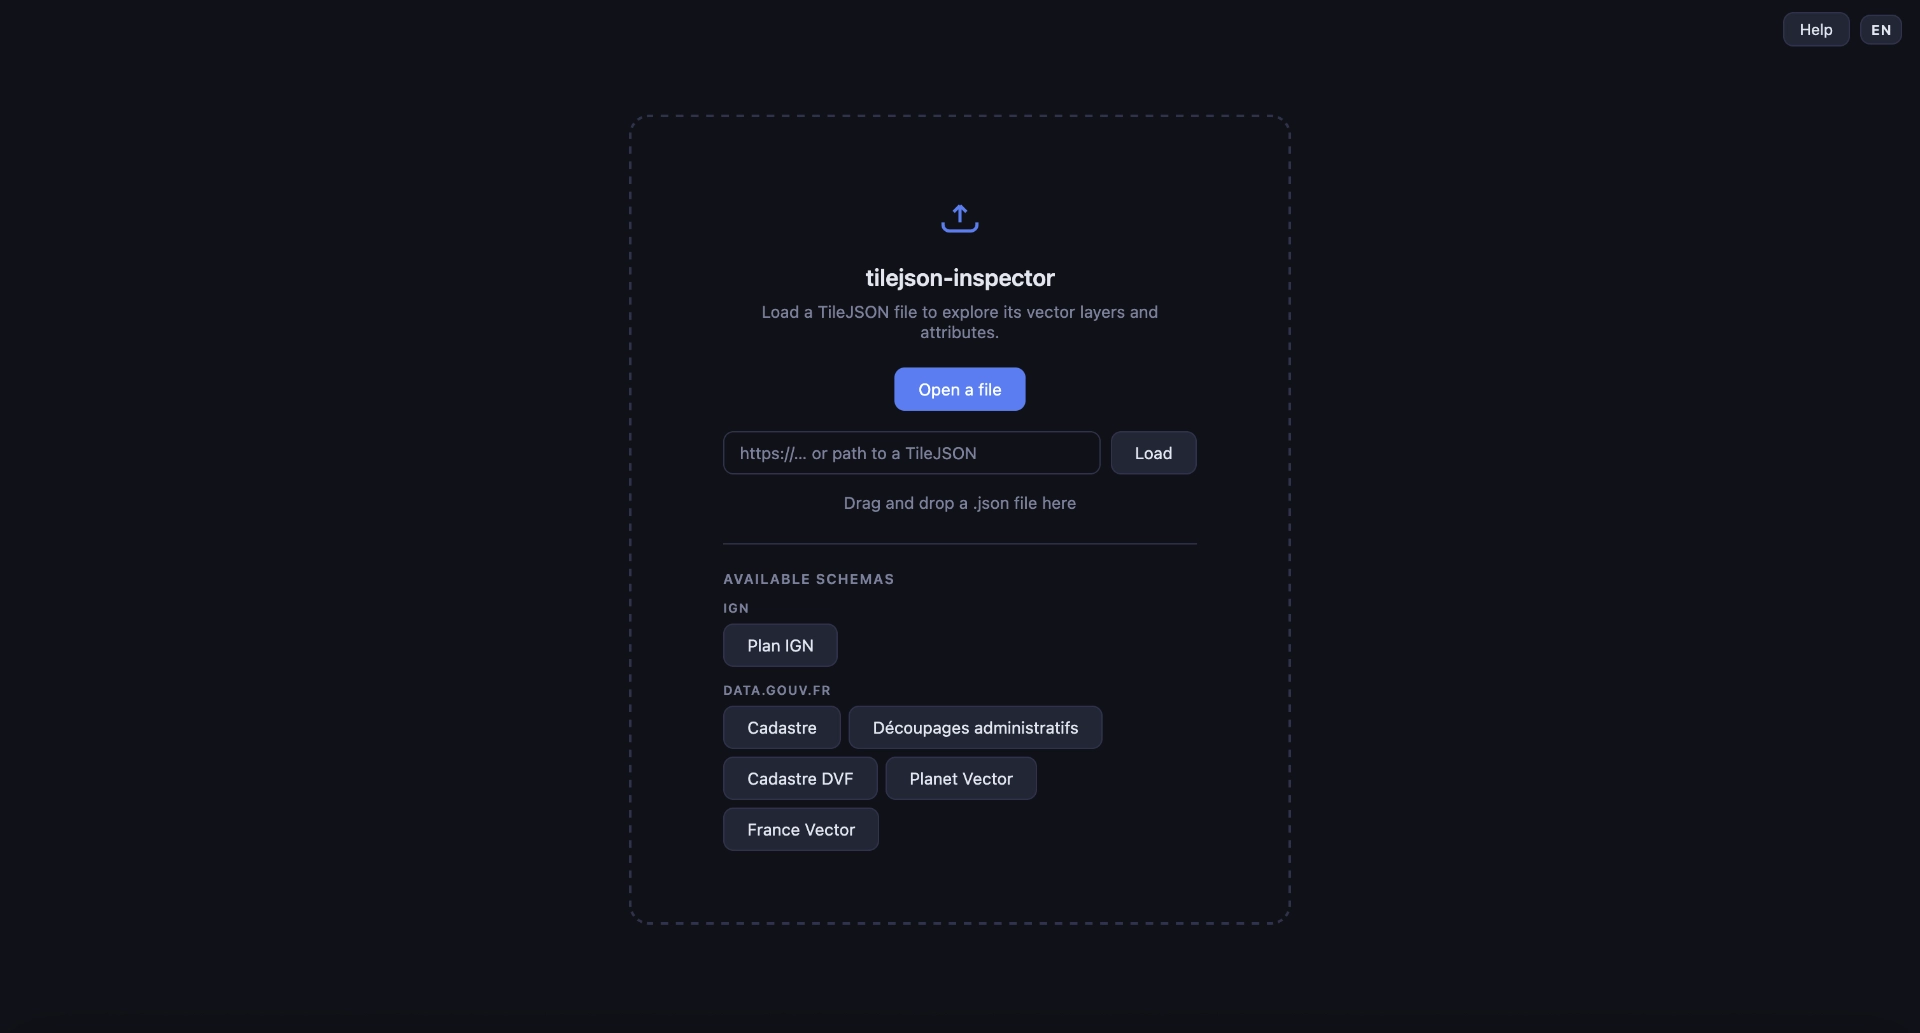
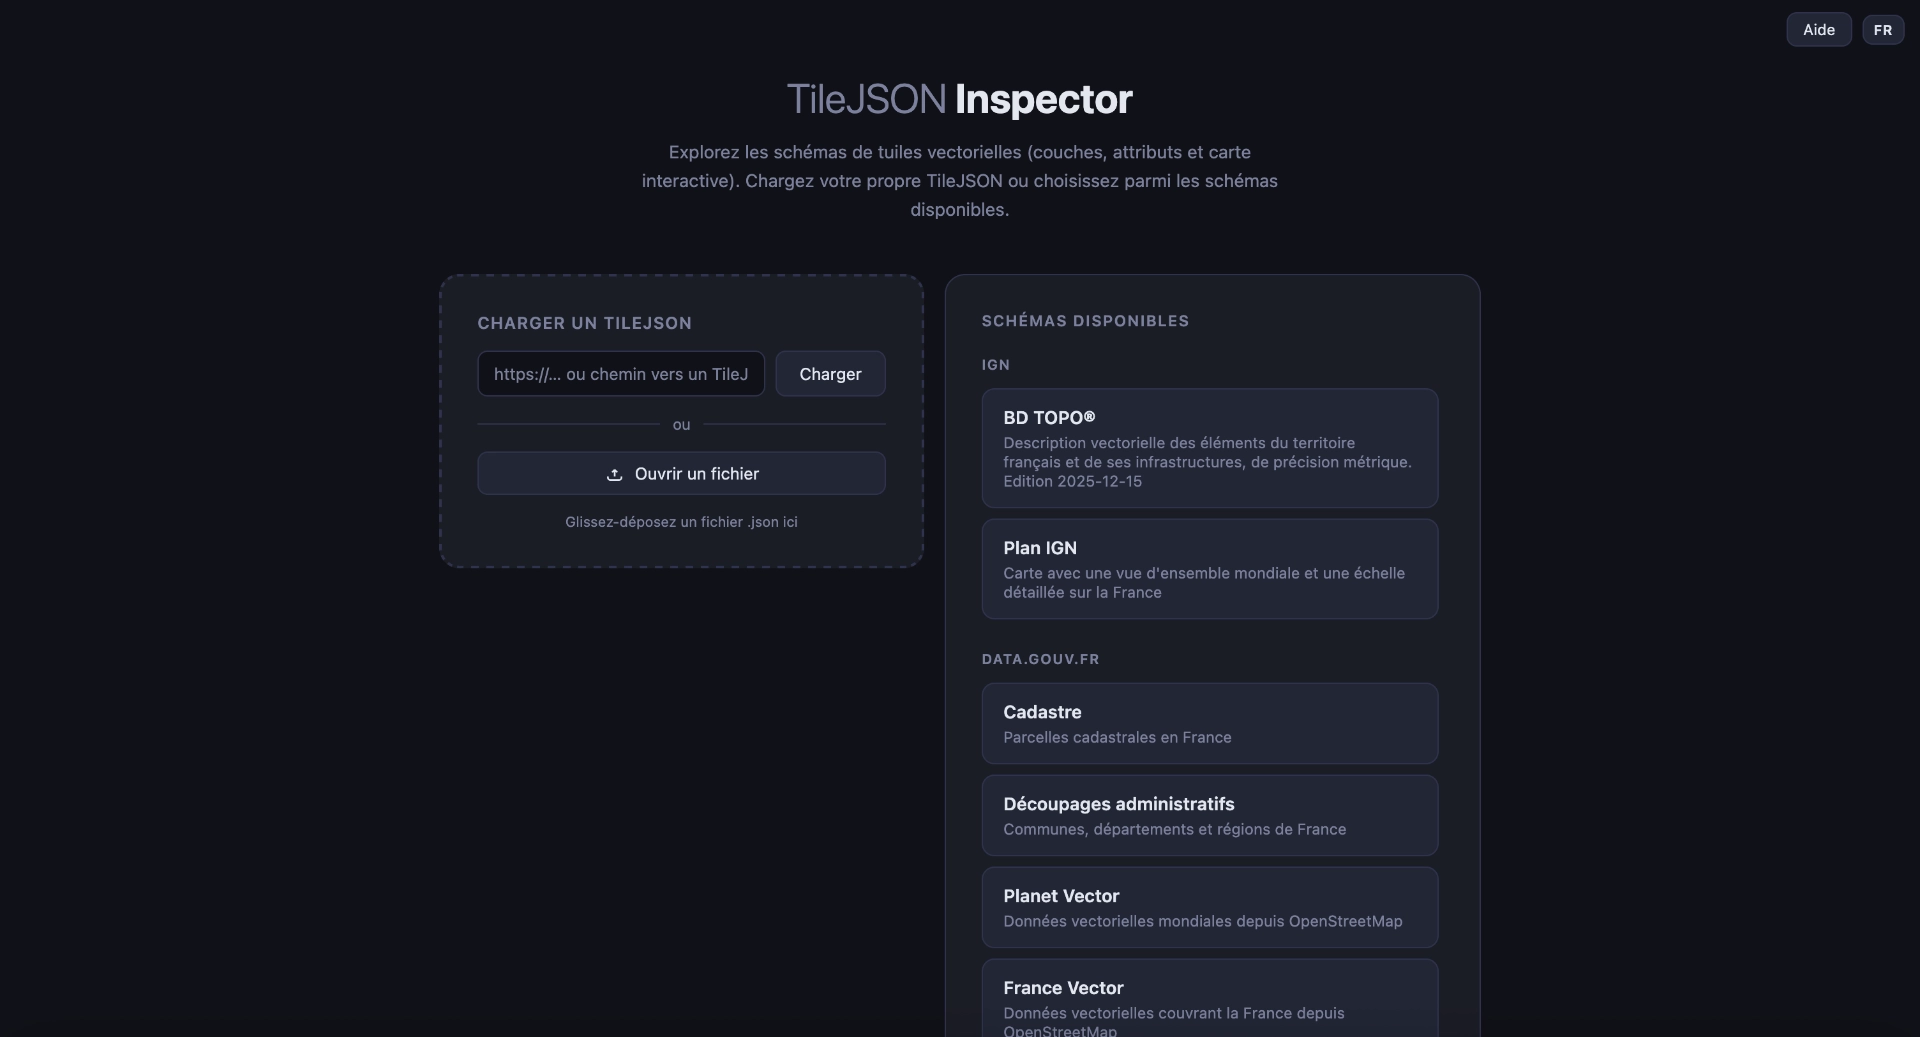
update help page

Changed region(s): [[0.25, 0.2478, 0.75, 1.0], [0.3438, 0.062, 0.6562, 0.2168], [0.9375, 0.0, 0.9688, 0.031]]

diff --git a/i18n.js b/i18n.js
@@ -54,8 +54,8 @@ const TRANSLATIONS = {
     'help.s5.body': 'Use the search bar at the top-left of the map to navigate to any place in the world.',
     'help.s6.title': 'Zoom guidance',
     'help.s6.body': 'A warning appears when the current zoom is outside a layer\'s visible range, with a button to quickly zoom in or out to that layer.',
-    'help.caption.home': 'Drop zone — load a file, URL, or pre-built schema',
-    'help.caption.inspector': 'Inspector — layers, attributes and interactive map',
+    'help.caption.home': 'Load a file, URL, or pre-built schema',
+    'help.caption.inspector': 'Inspect layers, attributes and use interactive map',
   },
   fr: {
     'drop.tagline': 'Explorez les schémas de tuiles vectorielles (couches, attributs et carte interactive). Chargez votre propre TileJSON ou choisissez parmi les schémas disponibles.',
@@ -112,8 +112,8 @@ const TRANSLATIONS = {
     'help.s5.body': 'Utilisez la barre de recherche en haut à gauche de la carte pour naviguer vers n\'importe quel endroit du monde.',
     'help.s6.title': 'Alertes de zoom',
     'help.s6.body': 'Un avertissement s\'affiche quand le zoom actuel est hors de la plage visible d\'une couche, avec un bouton pour ajuster rapidement le zoom.',
-    'help.caption.home': 'Zone de dépôt — chargez un fichier, une URL ou un schéma',
-    'help.caption.inspector': 'Inspecteur — couches, attributs et carte interactive',
+    'help.caption.home': 'Chargez un fichier, une URL ou un schéma',
+    'help.caption.inspector': 'Inspectez les couches, attributs et utilisez la carte interactive',
   }
 };
 

diff --git a/index.html b/index.html
@@ -222,7 +222,11 @@
           <figcaption data-i18n="help.caption.home">Drop zone</figcaption>
         </figure>
         <figure class="help-screenshot">
-          <img src="img/screenshot_inspector.webp" alt="Inspector" onclick="openLightbox(this.src)" title="Click to enlarge">
+          <img src="img/screenshot_inspector_01.webp" alt="Inspector" onclick="openLightbox(this.src)" title="Click to enlarge">
+          <figcaption data-i18n="help.caption.inspector">Inspector</figcaption>
+        </figure>
+         <figure class="help-screenshot">
+          <img src="img/screenshot_inspector_02.webp" alt="Inspector" onclick="openLightbox(this.src)" title="Click to enlarge">
           <figcaption data-i18n="help.caption.inspector">Inspector</figcaption>
         </figure>
       </div>